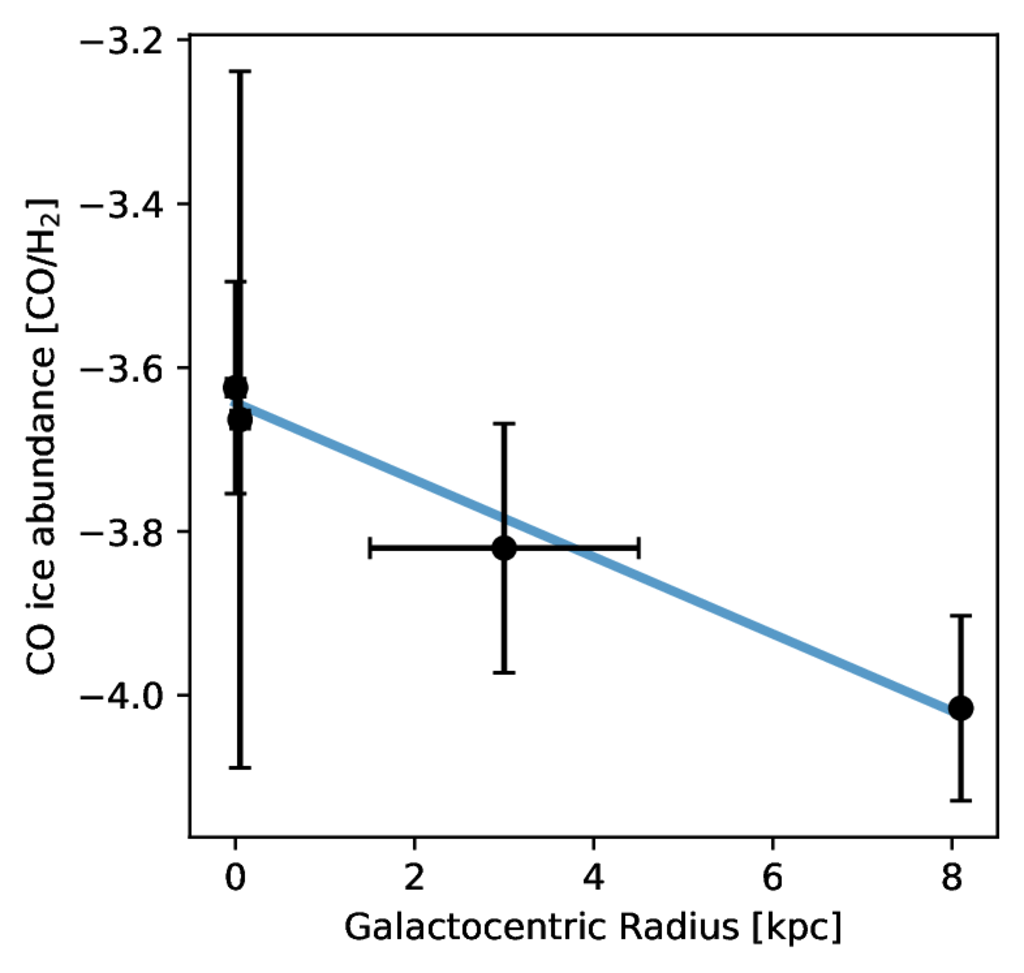
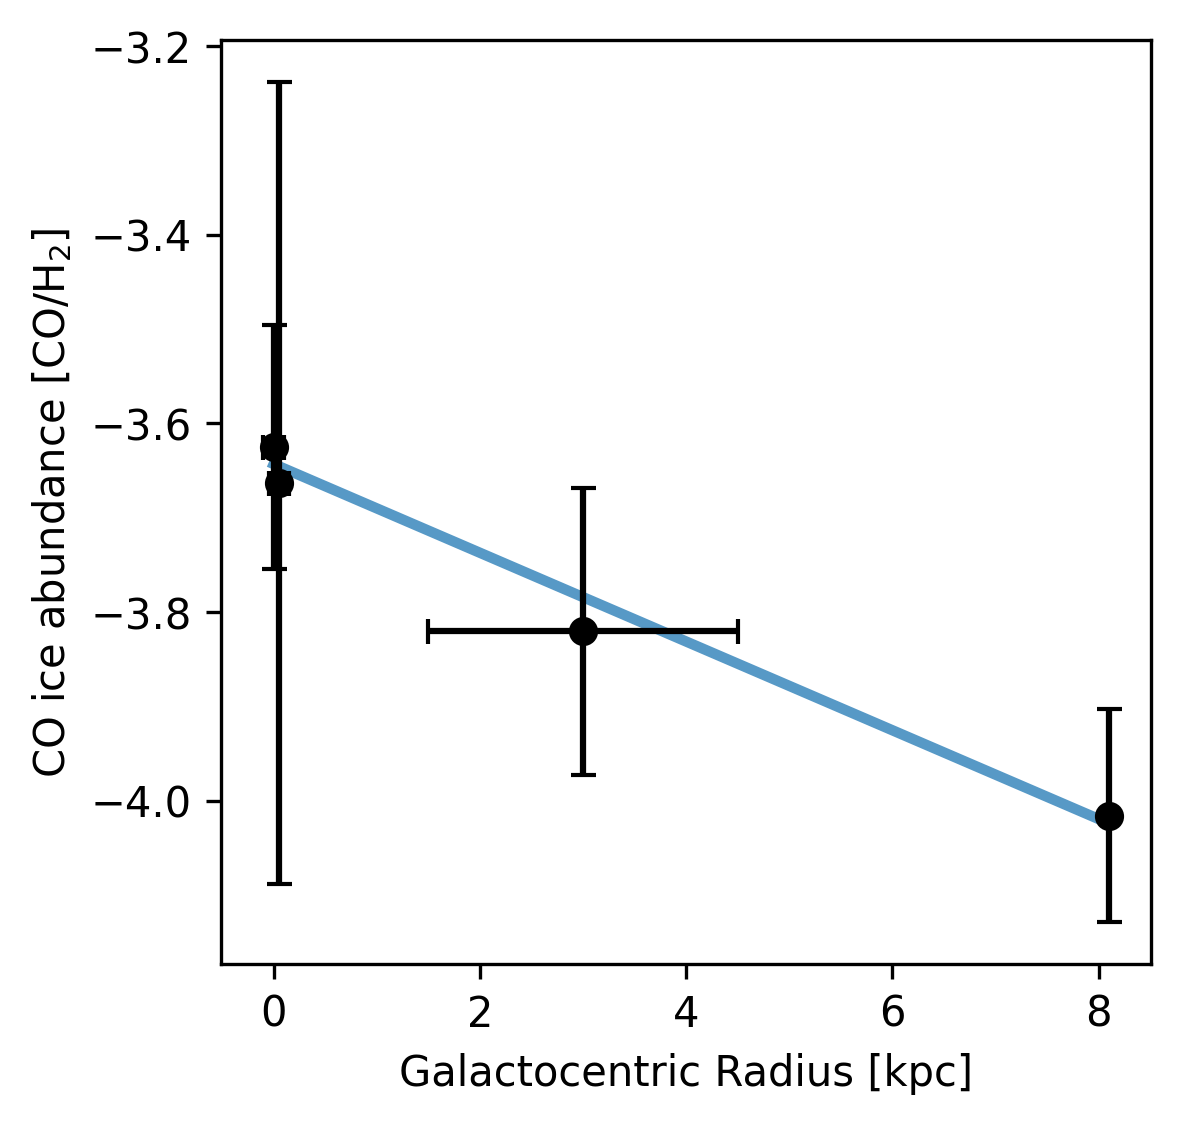
slides, image updates

diff --git a/gc_ice_2025.html b/gc_ice_2025.html
@@ -468,15 +468,60 @@ If we adopt those ice models, we can infer the CO ice column density
     </div>
      <img style="width:55%; float:right; max-height:none; max-width:none;" src="ice_assets/CCD_with_icemodel_F200W-F356W_F356W-F444W_mixes2_nolegend.png">
  </section>
-<section> <img src="ice_assets/CCD_with_icemodel_F405N-F466N_F356W-F444W_mixes2.png"> </section>
-
-<section> <img src="ice_assets/BlueStars_on_MUSTANG_12m_feather_zoom_F444W-F356W.png"> </section>
 
 <section>
-TODO: discuss Brandt's ice modeling stuff
-
-"Other" category in pie chart must rise
+     <div style='width:25%; float:left;'>So what is it?</div>
+     <img src="ice_assets/opacities_on_f356_and_f444.png" style='float:right;'>
 </section>
+
+<section>
+    <div style='width:100%;' class=smaller>
+        Same structure as CO (left), but there's less in the outskirts
+    </div>
+     <img src="ice_assets/BlueStars_on_MUSTANG_12m_feather_zoom_F405N-F466N.png" style='float: left; width:50%;'>
+     <img src="ice_assets/BlueStars_on_MUSTANG_12m_feather_zoom_F444W-F356W.png" style='float: right; width:50%;'>
+ </section>
+
+<section>
+    <img src="ice_assets/chemical_models_abundances_1e5_brandt.png" style='position:absolute; left:0px'>
+    <img src="ice_assets/frozen_carbon_distribution.png" style='position:absolute; top:0px; right:0px; width:25%;'>
+</section>
+
+<section>
+<div style='width:100%;' class=smaller>
+CO<sub>2</sub> ice is also detectable
+</div>
+<img style='width:50%; float: left' src="ice_assets/CCD_without_icemodel_F182M-F212N_F405N-F410M_withCloudC.png">
+<img style='width:50%; float: right' src="ice_assets/opacities_on_f466_f410_f405.png">
+</section>
+<section>
+<div style='width:100%;' class=smaller>
+CO<sub>2</sub> ice is also detectable
+</div>
+<img style='width:50%; float: left' src="ice_assets/CCD_with_icemodel_F182M-F212N_F405N-F410M_mixes2_withCloudC.png">
+<div style='width:50%; float: right' class=smaller>
+    <br>
+    Models don't match if we assume N(CO$_2$) $\propto$ N(H$_2$)
+    <br>
+    <br>
+    Probably CO$_2$ ice is processing into other molecules
+
+</div>
+</section>
+
+
+<section>
+<h4> looking forward </h4>
+<div class=smaller>
+There is potential to measure metallicity directly from photometry.
+<br>
+<br>
+SPHEREX can do this better for stars it can resolve.
+</div>
+
+    <img src="ice_assets/abundance_vs_metallicity.png" style='width:50%; float: left'>
+    <img src="assets/metalice.png" style='width:40%; float: right'>
+ </section>
 
 
 
@@ -484,6 +529,7 @@ TODO: discuss Brandt's ice modeling stuff
 </section>
 
 
+<section> <img src="ice_assets/CCD_with_icemodel_F405N-F466N_F356W-F444W_mixes2.png"> </section>
 <section> <img src="ice_assets/CCD_with_icemodel_F115W-F200W_F356W-F444W_mixes2_nolegend.png"> </section>
 <section> <img src="ice_assets/CCD_with_icemodel_F182M-F212N_F405N-F410M_mixes2_withCloudC.png"> </section>
 <section> <img src="ice_assets/CCD_with_icemodel_F182M-F212N_F405N-F466N_mixes2.png"> </section>
@@ -500,10 +546,8 @@ TODO: discuss Brandt's ice modeling stuff
 <section> <img src="ice_assets/boxplot_abundance_vs_AV_with_fit.png"> </section>
 <section> <img src="ice_assets/boxplot_abundance_vs_logNH2_with_fit.png"> </section>
 <section> <img src="ice_assets/opacities_on_f277_f323_f360_f480.png"> </section>
-<section> <img src="ice_assets/opacities_on_f356_and_f444.png"> </section>
 <section> <img src="ice_assets/opacities_on_f466.png"> </section>
 <section> <img src="ice_assets/opacities_on_f466_and_f410.png"> </section>
-<section> <img src="ice_assets/opacities_on_f466_f410_f405.png"> </section>
 <section> <img src="ice_assets/opacities_on_f466_withhudgins.png"> </section>
 <section> <img src="ice_assets/opacities_on_f466_withocn.png"> </section>
 <section> <img src="ice_assets/opacities_on_full_range.png"> </section>

diff --git a/colloquium_sep2025_texas.html b/colloquium_sep2025_texas.html
@@ -129,7 +129,7 @@ surveys and N-body dynamical modeling, play a key role.
 <section data-id="9e1f37193271406fc72e974be0a8a3fe">
     <div class="sl-block" data-block-type="text" style="width: auto; height: auto;" data-block-id="fa1e26dfdc2f3050895879d1fc1c4f1a">
     <div class="sl-block-content" data-placeholder-tag="h1" data-placeholder-text="Title Text" style="z-index: 11;">
-        <h3 style="font-size:130%; word-break: keep-all; hyphens: none;">Determining stellar masses in the Galaxy's richest environments</h3>
+        <h3 style="font-size:130%; word-break: keep-all; hyphens: none;">What sets stellar masses in the Galaxy's richest environments</h3>
             <div class="footer">Adam Ginsburg </div>
             <div class="smaller3 footer">Associate Professor <br>Department of Astronomy<br>University of Florida, Gainesville </div>
 
